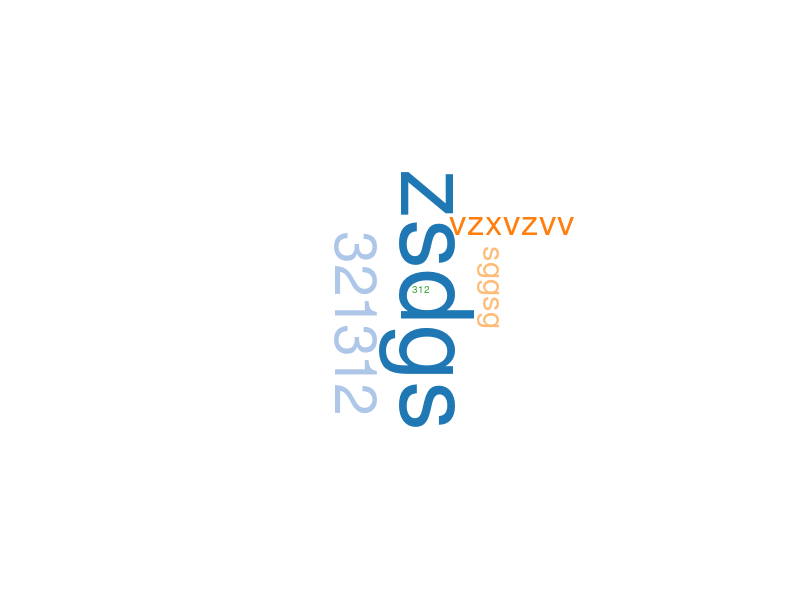
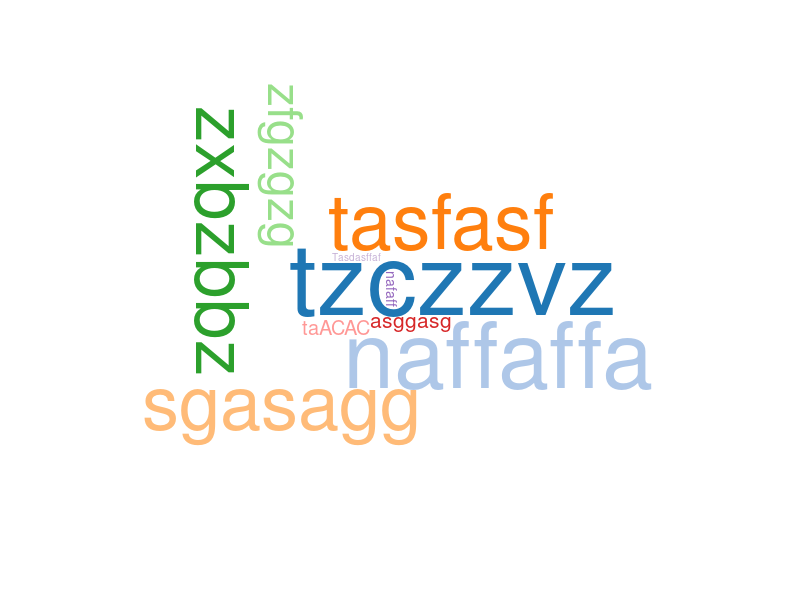
Add fonts, etc

Changed region(s): [[0.1562, 0.15, 0.8125, 0.75], [0.2188, 0.45, 0.25, 0.48]]

diff --git a/app/assets/stylesheets/scaffolds.scss b/app/assets/stylesheets/scaffolds.scss
@@ -1,65 +1,65 @@
-//body {
-//  background-color: #fff;
-//  color: #333;
-//  margin: 33px; }
-//
-//body, p, ol, ul, td {
-//  font-family: verdana, arial, helvetica, sans-serif;
-//  font-size: 13px;
-//  line-height: 18px; }
-//
-//pre {
-//  background-color: #eee;
-//  padding: 10px;
-//  font-size: 11px; }
-//
-//a {
-//  color: #000; }
-//
-//a:visited {
-//  color: #666; }
-//
-//a:hover {
-//  color: #fff;
-//  background-color: #000; }
-//
-//th {
-//  padding-bottom: 5px; }
-//
-//td {
-//  padding: 0 5px 7px; }
-//
-//div.field,
-//div.actions {
-//  margin-bottom: 10px; }
-//
-//#notice {
-//  color: green; }
-//
-//.field_with_errors {
-//  padding: 2px;
-//  background-color: red;
-//  display: table; }
-//
-//#error_explanation {
-//  width: 450px;
-//  border: 2px solid red;
-//  padding: 7px 7px 0;
-//  margin-bottom: 20px;
-//  background-color: #f0f0f0; }
-//
-//#error_explanation h2 {
-//  text-align: left;
-//  font-weight: bold;
-//  padding: 5px 5px 5px 15px;
-//  font-size: 12px;
-//  margin: -7px -7px 0;
-//  background-color: #c00;
-//  color: #fff; }
-//
-//#error_explanation ul li {
-//  font-size: 12px;
-//  list-style: square; }
-//
-//label {
-//  display: block; }
+body {
+  background-color: #fff;
+  color: #333;
+  margin: 33px; }
+
+body, p, ol, ul, td {
+  font-family: verdana, arial, helvetica, sans-serif;
+  font-size: 13px;
+  line-height: 18px; }
+
+pre {
+  background-color: #eee;
+  padding: 10px;
+  font-size: 11px; }
+
+a {
+  color: #000; }
+
+a:visited {
+  color: #666; }
+
+a:hover {
+  color: #fff;
+  background-color: #000; }
+
+th {
+  padding-bottom: 5px; }
+
+td {
+  padding: 0 5px 7px; }
+
+div.field,
+div.actions {
+  margin-bottom: 10px; }
+
+#notice {
+  color: green; }
+
+.field_with_errors {
+  padding: 2px;
+  background-color: red;
+  display: table; }
+
+#error_explanation {
+  width: 450px;
+  border: 2px solid red;
+  padding: 7px 7px 0;
+  margin-bottom: 20px;
+  background-color: #f0f0f0; }
+
+#error_explanation h2 {
+  text-align: left;
+  font-weight: bold;
+  padding: 5px 5px 5px 15px;
+  font-size: 12px;
+  margin: -7px -7px 0;
+  background-color: #c00;
+  color: #fff; }
+
+#error_explanation ul li {
+  font-size: 12px;
+  list-style: square; }
+
+label {
+  display: block; }

diff --git a/app/jobs/catfact_mailer_job.rb b/app/jobs/catfact_mailer_job.rb
@@ -3,7 +3,25 @@ class CatfactMailerJob < ApplicationJob
 
   def perform(*args)
     User.find_each do |user|
-      CatfactMailer.with(user: user).daily_catfact.deliver_now
+      user_quotes = Quote.all.where(user_id: user.id)
+      if user_quotes.count > 2
+        words = user_quotes.
+          order(:score).
+          limit(2).
+          pluck(:label).
+          map { |word| [word, rand(45)] }
+        @quotes = user_quotes.
+          order(:score).
+          limit(2)
+        cloud = MagicCloud::Cloud.new(words, rotate: :free, scale: :sqrt)
+        img = cloud.draw(960, 600)
+        img.write('app/assets/images/cloud.png')
+        if File.exists?('app/assets/images/cloud.png')
+          CatfactMailer.daily_catfact.deliver_now
+        end
+      end
+
+      # CatfactMailer.with(user: user).daily_catfact.deliver_now
 
     end
   end

diff --git a/app/controllers/clouds_controller.rb b/app/controllers/clouds_controller.rb
@@ -1,9 +1,8 @@
-class CloudsController < ActionController::Base
+class CloudsController < ApplicationController
   before_action :authenticate_user!
 
   def new
     words_with_rotates = Quote.
-      all.
       order(:score).
       limit(10).
       pluck(:label).
@@ -15,7 +14,7 @@ class CloudsController < ActionController::Base
     img = cloud.draw(800, 600) #default height/width
     img.write(Rails.root.join('app/assets/images/cloud.png'))
 
-    @quotes = Quote.all.order(:score).limit(10)
+    @quotes = Quote.order(:score).limit(10)
 
   end
 end

diff --git a/db/migrate/20210716124042_add_column_to_quotes.rb b/db/migrate/20210716124042_add_column_to_quotes.rb
@@ -1,0 +1,4 @@
+class AddColumnToQuotes < ActiveRecord::Migration[6.1]
+  def change
+  end
+end
